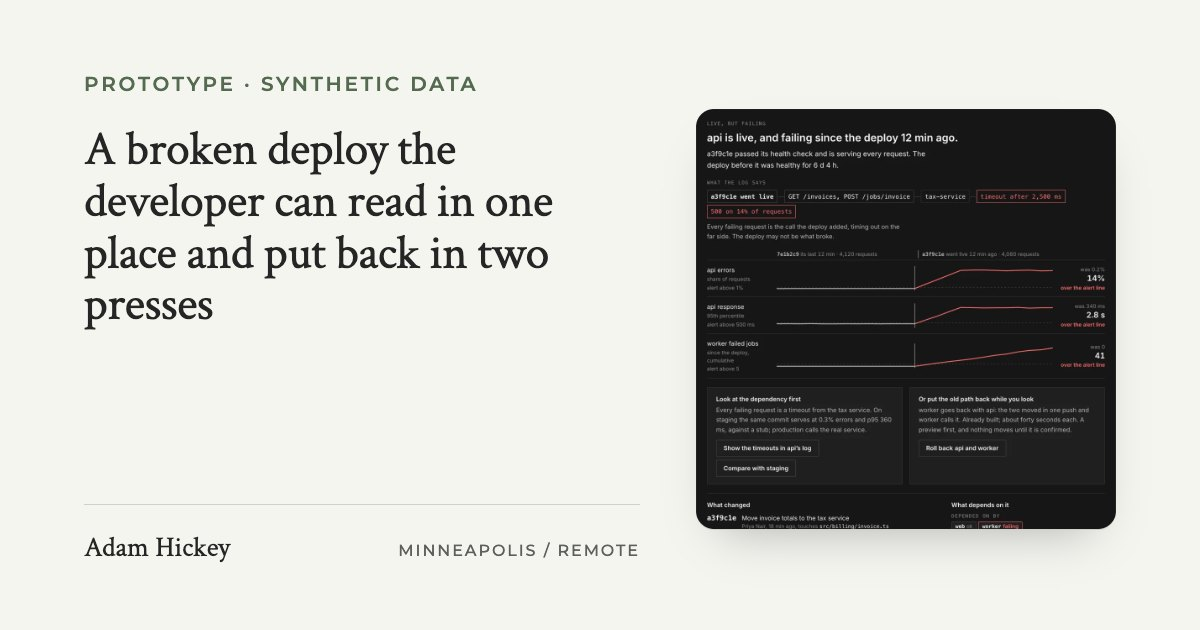
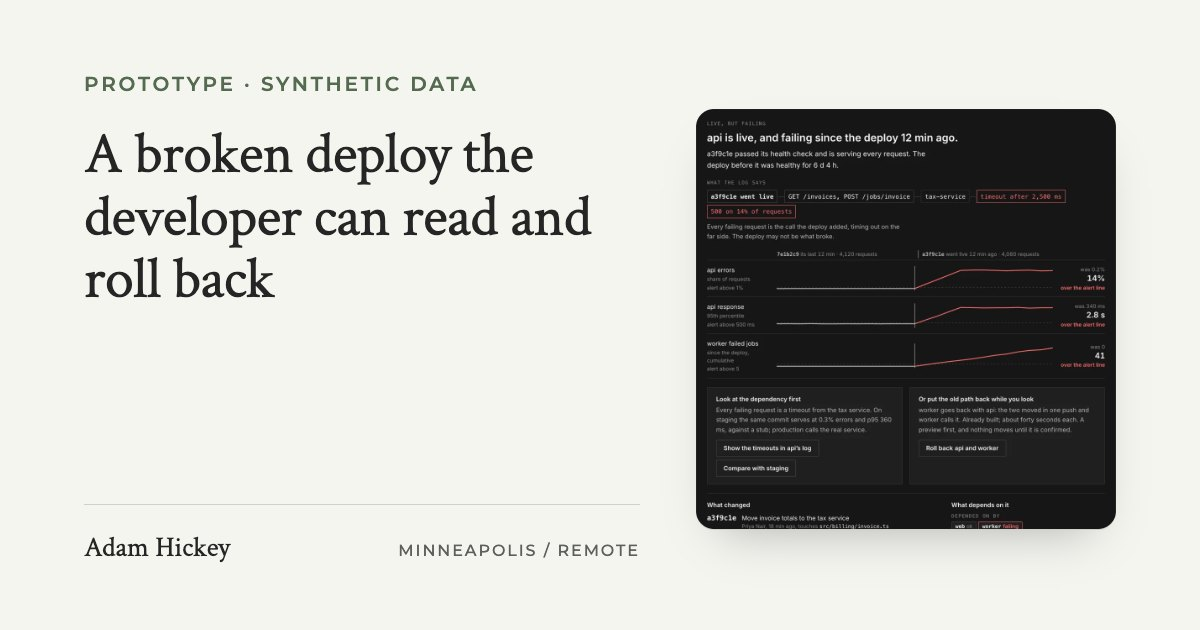
Shorten the two prototype titles
The pair under Selected work ran 16 and 11 words against seven or eight
on the three accounts above them, and the deploy title repeated its own
fourth check ("put back in two presses") nearly word for word.

- "A broken deploy the developer can read and roll back"
- "An AI recommendation the dispatcher can check and overrule"
  ("AI truck recommendation" could be read as a recommendation about
  an AI truck; the picture and the Freight dispatch tag say trucks.)

The two are now the same sentence shape. Each title is the card's h3
and aria-label, the page's h1, <title>, og:title and JSON-LD, a line in
llms.txt, the og.mjs registry, and the link text on the pages that
point at it; all moved together. Both share cards re-rendered and their
?v= bumped.

seo.mjs --write restamped twelve pages this branch does not touch
(09-26 to 09-28); those were checked out again and the sitemap holds
today's lastmod for the seven edited pages only.

Changed region(s): [[0.0617, 0.2111, 0.4933, 0.5127]]

diff --git a/prototype/deploy-console.html b/prototype/deploy-console.html
@@ -11,14 +11,14 @@
   </script>
   <meta charset="utf-8" />
   <meta name="viewport" content="width=device-width, initial-scale=1" />
-  <title>A broken deploy the developer can read in one place and put back in two presses | Adam Hickey</title>
+  <title>A broken deploy the developer can read and roll back | Adam Hickey</title>
   <meta name="description" content="A self-directed prototype of a multi-service deploy console, on synthetic data: the whole journey from the screen a developer opens before anything is wrong, through a first deploy, a failed build and a deploy that is live and failing, to a rollback previewed as a coordinated act; what is live kept apart from what is newest, a map of how the services connect, a project-level feed of what happened filterable by environment and resource, and a record of who decided." />
   <link rel="canonical" href="https://adamhickey.com/prototype/deploy-console.html" />
   <meta property="og:type" content="article" />
   <meta property="og:url" content="https://adamhickey.com/prototype/deploy-console.html" />
-  <meta property="og:title" content="A broken deploy the developer can read in one place and put back in two presses | Adam Hickey" />
+  <meta property="og:title" content="A broken deploy the developer can read and roll back | Adam Hickey" />
   <meta property="og:description" content="A self-directed prototype of a multi-service deploy console, on synthetic data: the whole journey from the screen a developer opens before anything is wrong, through a first deploy, a failed build and a deploy that is live and failing, to a rollback previewed as a coordinated act; what is live kept apart from what is newest, a map of how the services connect, a project-level feed of what happened filterable by environment and resource, and a record of who decided." />
-  <meta property="og:image" content="https://adamhickey.com/img/og/deploy-console.jpg?v=11" />
+  <meta property="og:image" content="https://adamhickey.com/img/og/deploy-console.jpg?v=12" />
   <meta property="og:image:width" content="1200" />
   <meta property="og:image:height" content="630" />
   <meta name="twitter:card" content="summary_large_image" />
@@ -34,13 +34,13 @@
         {
           "@type": "Article",
           "@id": "https://adamhickey.com/prototype/deploy-console.html#article",
-          "headline": "A broken deploy the developer can read in one place and put back in two presses",
+          "headline": "A broken deploy the developer can read and roll back",
           "description": "A self-directed prototype of a multi-service deploy console, on synthetic data: the whole journey from the screen a developer opens before anything is wrong, through a first deploy, a failed build and a deploy that is live and failing, to a rollback previewed as a coordinated act; what is live kept apart from what is newest, a map of how the services connect, a project-level feed of what happened filterable by environment and resource, and a record of who decided.",
           "url": "https://adamhickey.com/prototype/deploy-console.html",
           "mainEntityOfPage": "https://adamhickey.com/prototype/deploy-console.html",
-          "image": "https://adamhickey.com/img/og/deploy-console.jpg?v=11",
+          "image": "https://adamhickey.com/img/og/deploy-console.jpg?v=12",
           "datePublished": "2026-09-28",
-          "dateModified": "2026-09-28",
+          "dateModified": "2026-09-30",
           "author": {
             "@id": "https://adamhickey.com/#adam"
           },
@@ -105,7 +105,7 @@
             {
               "@type": "ListItem",
               "position": 3,
-              "name": "A broken deploy the developer can read in one place and put back in two presses",
+              "name": "A broken deploy the developer can read and roll back",
               "item": "https://adamhickey.com/prototype/deploy-console.html"
             }
           ]
@@ -267,7 +267,7 @@
                 <p class="case-kicker">Multi-service deploy console &middot; working prototype &middot; synthetic data</p>
               </div>
             </div>
-            <h1 class="case-title dcw-hero-title">A broken deploy the developer can read in one place and put back in two presses</h1>
+            <h1 class="case-title dcw-hero-title">A broken deploy the developer can read and roll back</h1>
             <p class="dcw-hero-dek">Something broke in a project of six services. One screen answers the developer&rsquo;s questions in the order they ask them.</p>
             <!-- The four things the prototype does, as the cockpit's hero
                  sets them since #297: a claim, then the four things that
@@ -663,7 +663,7 @@
         <p class="build-service">The same argument, written out: <a href="../writing/what-does-a-developer-need-from-an-interface-on-a-bad-day.html">What does a developer need from an interface on a bad day?</a> The account this draws on: <a href="../case-study/this-site.html">How I built this site</a>, where every incident is written up with its fix. If you would rather buy this as a piece of work: <a href="../engagement/working-product-prototype.html">Working Product Prototype</a>.</p>
         <a class="build-next" href="dispatch-cockpit.html">
           <span class="build-next-eyebrow">Next prototype</span>
-          <span class="build-next-title">An AI truck recommendation the dispatcher can check and overrule &rarr;</span>
+          <span class="build-next-title">An AI recommendation the dispatcher can check and overrule &rarr;</span>
         </a>
         <a class="btn-back" href="../index.html#case-studies">
           <svg viewBox="0 0 24 24" fill="none" stroke="currentColor" stroke-width="2" stroke-linecap="round" stroke-linejoin="round" aria-hidden="true"><path d="m15 18-6-6 6-6"/></svg>

diff --git a/prototype/dispatch-cockpit.html b/prototype/dispatch-cockpit.html
@@ -11,14 +11,14 @@
   </script>
   <meta charset="utf-8" />
   <meta name="viewport" content="width=device-width, initial-scale=1" />
-  <title>An AI truck recommendation the dispatcher can check and overrule | Adam Hickey</title>
+  <title>An AI recommendation the dispatcher can check and overrule | Adam Hickey</title>
   <meta name="description" content="A self-directed prototype of human-in-the-loop AI decision support for freight dispatch, on synthetic data: the factors weighed and where each one stands, outcomes from similar loads instead of a confidence percentage, a one-click override that asks why afterwards, a legal limit the system enforces before it scores, and the whole fleet always in reach." />
   <link rel="canonical" href="https://adamhickey.com/prototype/dispatch-cockpit.html" />
   <meta property="og:type" content="article" />
   <meta property="og:url" content="https://adamhickey.com/prototype/dispatch-cockpit.html" />
-  <meta property="og:title" content="An AI truck recommendation the dispatcher can check and overrule | Adam Hickey" />
+  <meta property="og:title" content="An AI recommendation the dispatcher can check and overrule | Adam Hickey" />
   <meta property="og:description" content="A self-directed prototype of human-in-the-loop AI decision support for freight dispatch, on synthetic data: the factors weighed and where each one stands, outcomes from similar loads instead of a confidence percentage, a one-click override that asks why afterwards, a legal limit the system enforces before it scores, and the whole fleet always in reach." />
-  <meta property="og:image" content="https://adamhickey.com/img/og/dispatch-cockpit.jpg?v=13" />
+  <meta property="og:image" content="https://adamhickey.com/img/og/dispatch-cockpit.jpg?v=14" />
   <meta property="og:image:width" content="1200" />
   <meta property="og:image:height" content="630" />
   <meta name="twitter:card" content="summary_large_image" />
@@ -34,13 +34,13 @@
         {
           "@type": "Article",
           "@id": "https://adamhickey.com/prototype/dispatch-cockpit.html#article",
-          "headline": "An AI truck recommendation the dispatcher can check and overrule",
+          "headline": "An AI recommendation the dispatcher can check and overrule",
           "description": "A self-directed prototype of human-in-the-loop AI decision support for freight dispatch, on synthetic data: the factors weighed and where each one stands, outcomes from similar loads instead of a confidence percentage, a one-click override that asks why afterwards, a legal limit the system enforces before it scores, and the whole fleet always in reach.",
           "url": "https://adamhickey.com/prototype/dispatch-cockpit.html",
           "mainEntityOfPage": "https://adamhickey.com/prototype/dispatch-cockpit.html",
-          "image": "https://adamhickey.com/img/og/dispatch-cockpit.jpg?v=13",
+          "image": "https://adamhickey.com/img/og/dispatch-cockpit.jpg?v=14",
           "datePublished": "2026-09-10",
-          "dateModified": "2026-09-28",
+          "dateModified": "2026-09-30",
           "author": {
             "@id": "https://adamhickey.com/#adam"
           },
@@ -97,7 +97,7 @@
             {
               "@type": "ListItem",
               "position": 3,
-              "name": "An AI truck recommendation the dispatcher can check and overrule",
+              "name": "An AI recommendation the dispatcher can check and overrule",
               "item": "https://adamhickey.com/prototype/dispatch-cockpit.html"
             }
           ]
@@ -309,7 +309,7 @@
                 <p class="case-kicker">Human&ndash;AI interaction &middot; working prototype &middot; synthetic data</p>
               </div>
             </div>
-            <h1 class="case-title ckw-hero-title">An AI truck recommendation the dispatcher can check and overrule</h1>
+            <h1 class="case-title ckw-hero-title">An AI recommendation the dispatcher can check and overrule</h1>
             <p class="ckw-hero-dek">The system picks a truck. The dispatcher decides whether it is right.</p>
             <!-- The four things the prototype does were one sentence with three
                  commas after the dek's two short ones, and a reader scanning

diff --git a/index.html b/index.html
@@ -595,11 +595,11 @@
                morph in setupCaseMorph: neither page has a case-hero to
                morph into. -->
           <div class="case-card case-card--prototype reveal">
-            <a class="case-thumb" href="prototype/deploy-console.html" aria-label="Read the case study: A broken deploy the developer can read in one place and put back in two presses">
+            <a class="case-thumb" href="prototype/deploy-console.html" aria-label="Read the case study: A broken deploy the developer can read and roll back">
               <img decoding="async" loading="lazy" src="img/console/slide-failing.webp?v=10" alt="The console on a deploy that is live and failing, on a near-black dashboard: a trace of mono links from a3f9c1e went live to 500 on 14% of requests, the failing links in red, then three lanes with the deploy as a vertical line through them, each series flat before the line and rising in red after it, with the figure before and the figure now at the edges." width="1360" height="1020"/>
             </a>
             <div class="case-card-body">
-              <h3>A broken deploy the developer can read in one place and put back in two presses</h3>
+              <h3>A broken deploy the developer can read and roll back</h3>
               <p class="case-desc">An independent prototype on fictional data, not client work.</p>
               <ul class="case-checks">
                 <li><svg class="case-check" xmlns="http://www.w3.org/2000/svg" viewBox="0 0 24 24" fill="none" stroke="currentColor" stroke-width="2" stroke-linecap="round" stroke-linejoin="round" aria-hidden="true" focusable="false"><path d="M20 6 9 17l-5-5"/></svg><span>Keeps what&rsquo;s live apart from what&rsquo;s newest.</span></li>
@@ -620,11 +620,11 @@
           </div>
 
           <div class="case-card case-card--prototype reveal">
-            <a class="case-thumb" href="prototype/dispatch-cockpit.html" aria-label="Read the case study: An AI truck recommendation the dispatcher can check and overrule">
+            <a class="case-thumb" href="prototype/dispatch-cockpit.html" aria-label="Read the case study: An AI recommendation the dispatcher can check and overrule">
               <img decoding="async" loading="lazy" src="img/cockpit/slide-close-call.webp?v=19" alt="The cockpit on a close call: a note raised on white reading &ldquo;T-131&rsquo;s hours are 45 minutes old. The last reading left 30 minutes to spare on this run. Check the logbook before assigning T-131.&rdquo;, and under it a comparison with Option A, T-131, Priya Nair, against Option B, T-118, Marisol Vega. The two rows that separate them are raised on white and marked &ldquo;the tradeoff&rdquo;: distance to pickup, 16 miles against 41, and hours of service left, 6.0 against 8.4 with T-131&rsquo;s reading marked 45 minutes old. A third row begins at the bottom edge." width="1360" height="1020"/>
             </a>
             <div class="case-card-body">
-              <h3>An AI truck recommendation the dispatcher can check and overrule</h3>
+              <h3>An AI recommendation the dispatcher can check and overrule</h3>
               <p class="case-desc">An independent prototype on fictional data, not client work.</p>
               <ul class="case-checks">
                 <li><svg class="case-check" xmlns="http://www.w3.org/2000/svg" viewBox="0 0 24 24" fill="none" stroke="currentColor" stroke-width="2" stroke-linecap="round" stroke-linejoin="round" aria-hidden="true" focusable="false"><path d="M20 6 9 17l-5-5"/></svg><span>Every factor behind the pick is shown.</span></li>

diff --git a/writing/what-does-a-developer-need-from-an-interface-on-a-bad-day.html b/writing/what-does-a-developer-need-from-an-interface-on-a-bad-day.html
@@ -44,7 +44,7 @@
           "mainEntityOfPage": "https://adamhickey.com/writing/what-does-a-developer-need-from-an-interface-on-a-bad-day.html",
           "image": "https://adamhickey.com/img/og/what-does-a-developer-need-from-an-interface-on-a-bad-day.jpg",
           "datePublished": "2026-09-22",
-          "dateModified": "2026-09-28",
+          "dateModified": "2026-09-30",
           "author": {
             "@id": "https://adamhickey.com/#adam"
           },
@@ -390,7 +390,7 @@
              engagement it describes and the account it draws on. A text line
              rather than a pitch, for the same reason the case studies end on
              one. -->
-        <p class="build-service">The same argument, built: <a href="../prototype/deploy-console.html">a broken deploy the developer can read in one place and put back in two presses</a>, a working prototype on synthetic data. The account this draws on: <a href="../case-study/this-site.html">How I built this site</a>, where every incident above is written up with its fix, and <a href="designing-for-the-moment-the-workflow-breaks.html">the moment the workflow breaks</a>, where the same questions are asked on an operations floor. How I do this on a team: <a href="../engagement/embedded-senior-product-design.html">own the design inside the team, not beside it</a>, in its repository.</p>
+        <p class="build-service">The same argument, built: <a href="../prototype/deploy-console.html">a broken deploy the developer can read and roll back</a>, a working prototype on synthetic data. The account this draws on: <a href="../case-study/this-site.html">How I built this site</a>, where every incident above is written up with its fix, and <a href="designing-for-the-moment-the-workflow-breaks.html">the moment the workflow breaks</a>, where the same questions are asked on an operations floor. How I do this on a team: <a href="../engagement/embedded-senior-product-design.html">own the design inside the team, not beside it</a>, in its repository.</p>
         <a class="build-next" href="designing-for-the-moment-the-workflow-breaks.html">
           <span class="build-next-eyebrow">Next</span>
           <span class="build-next-title">Designing for the moment the workflow breaks &rarr;</span>

diff --git a/writing/enterprise-ai-should-help-people-decide-not-just-answer.html b/writing/enterprise-ai-should-help-people-decide-not-just-answer.html
@@ -44,7 +44,7 @@
           "mainEntityOfPage": "https://adamhickey.com/writing/enterprise-ai-should-help-people-decide-not-just-answer.html",
           "image": "https://adamhickey.com/img/og/enterprise-ai-should-help-people-decide-not-just-answer.jpg",
           "datePublished": "2026-09-10",
-          "dateModified": "2026-09-26",
+          "dateModified": "2026-09-30",
           "author": {
             "@id": "https://adamhickey.com/#adam"
           },
@@ -395,7 +395,7 @@
              engagement it describes and the account it draws on. A text line
              rather than a pitch, for the same reason the case studies end on
              one. -->
-        <p class="build-service">The working version of this argument: <a href="../prototype/dispatch-cockpit.html">An AI truck recommendation the dispatcher can check and overrule</a>, a self-directed prototype on synthetic data. The account this draws on: <a href="../case-study/lucy-learns.html">How I built Lucy Learns</a>, where a generated set was held to a question written before anyone looked at it, and a voice interface came out after a couple of real sessions, for a reason no accuracy figure would have surfaced. If you would rather buy this as a piece of work: <a href="../engagement/working-product-prototype.html">Working Product Prototype</a>.</p>
+        <p class="build-service">The working version of this argument: <a href="../prototype/dispatch-cockpit.html">An AI recommendation the dispatcher can check and overrule</a>, a self-directed prototype on synthetic data. The account this draws on: <a href="../case-study/lucy-learns.html">How I built Lucy Learns</a>, where a generated set was held to a question written before anyone looked at it, and a voice interface came out after a couple of real sessions, for a reason no accuracy figure would have surfaced. If you would rather buy this as a piece of work: <a href="../engagement/working-product-prototype.html">Working Product Prototype</a>.</p>
         <a class="build-next" href="what-does-a-person-need-to-supervise-an-ai-agent.html">
           <span class="build-next-eyebrow">Next</span>
           <span class="build-next-title">What does a person need to supervise an AI agent? &rarr;</span>

diff --git a/writing/what-does-a-person-need-to-supervise-an-ai-agent.html b/writing/what-does-a-person-need-to-supervise-an-ai-agent.html
@@ -44,7 +44,7 @@
           "mainEntityOfPage": "https://adamhickey.com/writing/what-does-a-person-need-to-supervise-an-ai-agent.html",
           "image": "https://adamhickey.com/img/og/what-does-a-person-need-to-supervise-an-ai-agent.jpg",
           "datePublished": "2026-09-22",
-          "dateModified": "2026-09-26",
+          "dateModified": "2026-09-30",
           "author": {
             "@id": "https://adamhickey.com/#adam"
           },
@@ -409,7 +409,7 @@
              engagement it describes and the account it draws on. A text line
              rather than a pitch, for the same reason the case studies end on
              one. -->
-        <p class="build-service">The working version of the first half of this argument: <a href="../prototype/dispatch-cockpit.html">An AI truck recommendation the dispatcher can check and overrule</a>, a self-directed prototype on synthetic data that recommends rather than acts, and says on its own page what the version that acts would need. The account this draws on: <a href="../case-study/lucy-learns.html">How I built Lucy Learns</a>, where a generated set was held to a question written before anyone looked at it. If you would rather buy this as a piece of work: <a href="../engagement/working-product-prototype.html">Working Product Prototype</a>.</p>
+        <p class="build-service">The working version of the first half of this argument: <a href="../prototype/dispatch-cockpit.html">An AI recommendation the dispatcher can check and overrule</a>, a self-directed prototype on synthetic data that recommends rather than acts, and says on its own page what the version that acts would need. The account this draws on: <a href="../case-study/lucy-learns.html">How I built Lucy Learns</a>, where a generated set was held to a question written before anyone looked at it. If you would rather buy this as a piece of work: <a href="../engagement/working-product-prototype.html">Working Product Prototype</a>.</p>
         <a class="build-next" href="what-should-a-working-prototype-actually-prove.html">
           <span class="build-next-eyebrow">Next</span>
           <span class="build-next-title">What should a working prototype actually prove? &rarr;</span>

diff --git a/case-study/dispatch-complexity.html b/case-study/dispatch-complexity.html
@@ -44,7 +44,7 @@
           "mainEntityOfPage": "https://adamhickey.com/case-study/dispatch-complexity.html",
           "image": "https://adamhickey.com/img/og/dispatch-complexity.jpg",
           "datePublished": "2026-06-01",
-          "dateModified": "2026-09-28",
+          "dateModified": "2026-09-30",
           "author": {
             "@id": "https://adamhickey.com/#adam"
           },
@@ -247,7 +247,7 @@
         <a class="case-ask-link" href="../index.html#contact">Start a conversation &rarr;</a>
       </div>
       <p class="case-closing-service">The reframing this project opened with is the first move in <a href="../engagement/product-clarity.html">how I turn ambiguity into a decision</a>.</p>
-      <a href="../prototype/dispatch-cockpit.html" class="case-closing-next"><span class="case-closing-next-eyebrow">Next, the prototype</span><span class="case-closing-next-title">An AI truck recommendation the dispatcher can check and overrule &rarr;</span></a>
+      <a href="../prototype/dispatch-cockpit.html" class="case-closing-next"><span class="case-closing-next-eyebrow">Next, the prototype</span><span class="case-closing-next-title">An AI recommendation the dispatcher can check and overrule &rarr;</span></a>
     </div>
   </footer>
 
